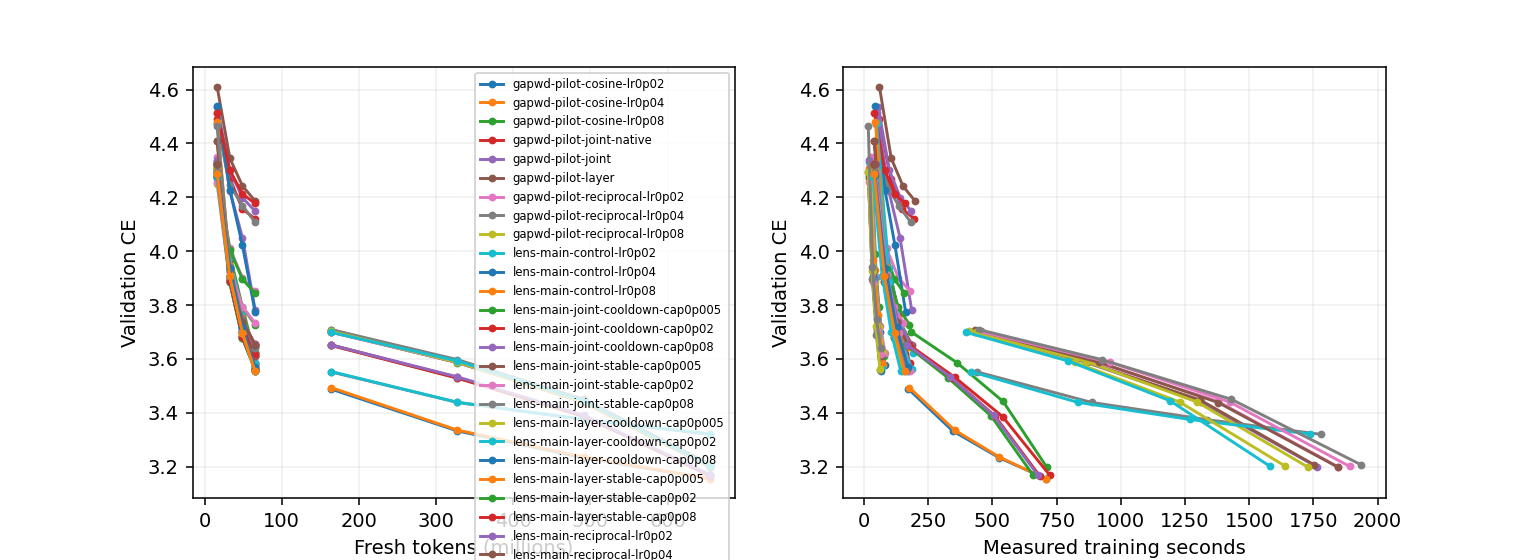
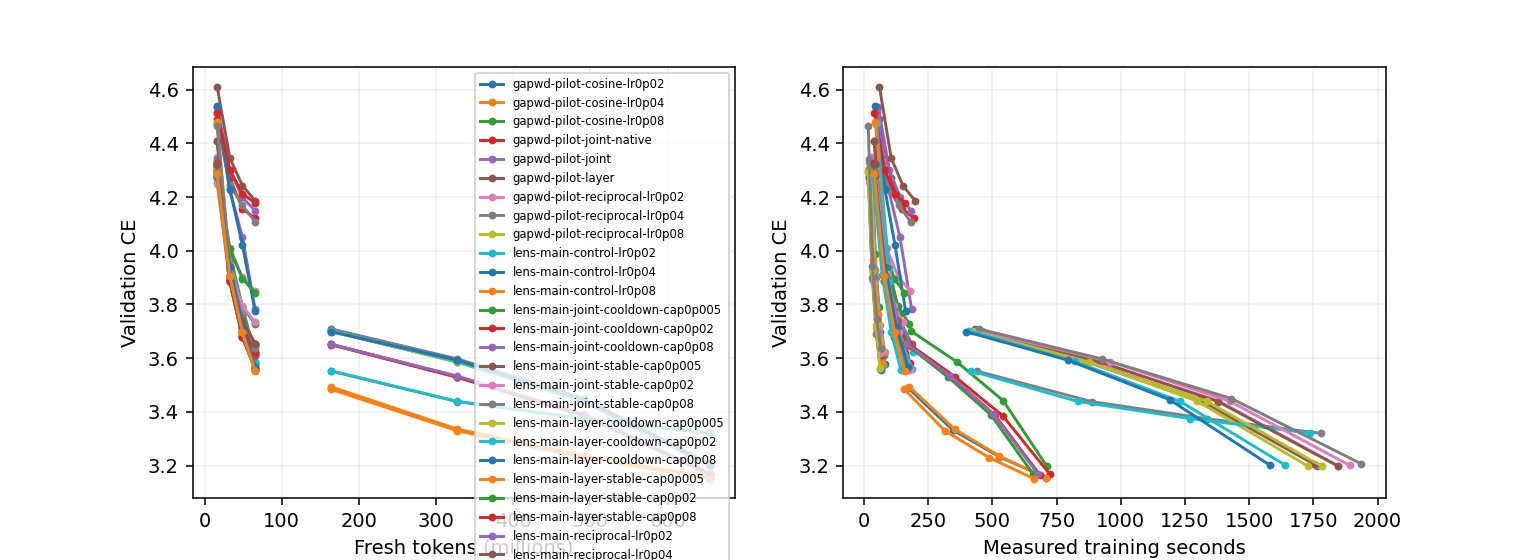
Update live Muon experiment results

diff --git a/research/unnormalized_muon/RESULTS.md b/research/unnormalized_muon/RESULTS.md
@@ -73,6 +73,8 @@ One B300 per job. CE is token cross-entropy (nats); lower is better. Rows with d
 | um-lens-confirm-joint-s10 | Clean GapWD joint uniform v2 c-in-Q quadratic cap0.01/cooldown fixed_lambda=0.18375 WD:standard(0) | 20000 | 10 | 0.04 | 3.198918 | 0.969828 | 3.144965 | 1934.59 |
 | um-lens-confirm-joint-s11 | Clean GapWD joint uniform v2 c-in-Q quadratic cap0.01/cooldown fixed_lambda=0.18375 WD:standard(0) | 20000 | 11 | 0.04 | 3.201077 | 0.970477 | 3.144870 | 1981.90 |
 | um-lens-confirm-joint-s12 | Clean GapWD joint uniform v2 c-in-Q quadratic cap0.01/cooldown fixed_lambda=0.18375 WD:standard(0) | 20000 | 12 | 0.04 | 3.206757 | 0.972214 | 3.150027 | 2028.32 |
+| um-lens-confirm-layer-s10 | Clean GapWD layer uniform v2 c-in-Q armijo cap0.01/cooldown fixed_lambda=0.18375 WD:standard(0) | 20000 | 10 | 0.04 | 3.197503 | 0.969383 | 3.142940 | 1882.20 |
+| um-lens-confirm-layer-s11 | Clean GapWD layer uniform v2 c-in-Q armijo cap0.01/cooldown fixed_lambda=0.18375 WD:standard(0) | 20000 | 11 | 0.04 | 3.201502 | 0.970638 | 3.146095 | 1719.76 |
 | um-lens-confirm-layer-s12 | Clean GapWD layer uniform v2 c-in-Q armijo cap0.01/cooldown fixed_lambda=0.18375 WD:standard(0) | 20000 | 12 | 0.04 | 3.202821 | 0.970995 | 3.147678 | 1656.38 |
 | um-lens-creative-ema0p5 | Clean GapWD layer uniform v2 c-in-Q armijo cap0.01/cooldown fixed_lambda=0.18375 WD:standard(0) | 2000 | 0 | 0.04 | 3.555660 | 1.077899 | — | 247.79 |
 | um-lens-creative-ema0p9 | Clean GapWD layer uniform v2 c-in-Q armijo cap0.01/cooldown fixed_lambda=0.18375 WD:standard(0) | 2000 | 0 | 0.04 | 3.558717 | 1.078825 | — | 229.92 |
@@ -182,7 +184,7 @@ One B300 per job. CE is token cross-entropy (nats); lower is better. Rows with d
 
 Review of um-fw-diagnostic-001: Compiled training f0 compared against functional candidate losses; vanishing-step mismatch2-4e-5 exceeded tolerance, leading to curvature1e186 and45 skipped steps. Replaced by paired functional reference and candidates; retain all645 measured forwards and GPUcost.
 
-Conservative charged/reserved total: 22.6986 / 30 B300 GPU-hours. Includes prior smoke/failed attempts and current maximum-duration reservations. Six-slot central queue; one B300 per run.
+Conservative charged/reserved total: 20.7587 / 30 B300 GPU-hours. Includes prior smoke/failed attempts and current maximum-duration reservations. Six-slot central queue; one B300 per run.
 
 CLEAN geometry disables row equilibration and NorMuon. Original clean runs use zero matrix decay; new WD runs explicitly label standard or cautious decay and their CLI coefficient. Same five Polar Express steps and Frobenius correction; scale by the per-matrix nonnegative FP32 inner product of the native Nesterov input with the NS/Frobenius direction. Shape scaling occurs once outside the scalar. Legacy rows retain production extras and must be compared separately. Constant schedule changes only matrix LR; auxiliary schedules and momentum remain matched.
 

diff --git a/research/unnormalized_muon/DETAILED_EVAL.md b/research/unnormalized_muon/DETAILED_EVAL.md
@@ -18,8 +18,10 @@ All results use the B300 fork model/data/tokenizer and a fixed tuning-validation
 | normalized WD standard 0 | 0.04 | 20000 | 3.198918 | 1844.40 | 1934.59 |
 | normalized WD standard 0 | 0.04 | 20000 | 3.201077 | 1891.19 | 1981.90 |
 | normalized WD standard 0 | 0.04 | 20000 | 3.206757 | 1936.58 | 2028.32 |
+| normalized WD standard 0 | 0.04 | 20000 | 3.197503 | 1783.84 | 1882.20 |
 | normalized WD standard 0 | 0.04 | 20000 | 3.201502 | 1640.94 | 1719.76 |
 | normalized WD standard 0 | 0.04 | 20000 | 3.202821 | 1578.96 | 1656.38 |
+| normalized WD standard 0 | 0.02 | 20000 | 3.151175 | 662.61 | 720.44 |
 | normalized WD standard 0 | 0.04 | 20000 | 3.199618 | 710.50 | 788.71 |
 | normalized WD standard 0 | 0.0282843 | 20000 | 3.168332 | 723.17 | 786.20 |
 | normalized WD standard 0 | 0.04 | 20000 | 3.199090 | 1763.98 | 1834.23 |
@@ -315,6 +317,12 @@ um-lens-confirm-joint-s12: accepted 20000/20000; skipped nonpositive blocks 465;
 
 Timing seconds: direction=687.736, reference=150.582, candidates=295.063, auxiliary=18.164.
 
+| um-lens-confirm-layer-s10 | layer native | 0.1837499 | 20000 | 3.197503 | 40000 | 1882.20 |
+
+um-lens-confirm-layer-s10: accepted 20000/20000; skipped nonpositive blocks 410; median actual eta 0.00778065; median gamma 0.00142969; median L 1e-16; median trials 1; max measured spectral ratio lambda*||W||op=0.31436. Native approximate NS can violate the ideal unit-oracle premise; this is recorded, not hidden.
+
+Timing seconds: direction=661.032, reference=151.402, candidates=147.486, auxiliary=18.910.
+
 | um-lens-confirm-layer-s11 | layer native | 0.1837499 | 20000 | 3.201502 | 40000 | 1719.76 |
 
 um-lens-confirm-layer-s11: accepted 20000/20000; skipped nonpositive blocks 331; median actual eta 0.00778212; median gamma 0.00142996; median L 1e-16; median trials 1; max measured spectral ratio lambda*||W||op=0.264642. Native approximate NS can violate the ideal unit-oracle premise; this is recorded, not hidden.
@@ -327,6 +335,7 @@ um-lens-confirm-layer-s12: accepted 20000/20000; skipped nonpositive blocks 466;
 
 Timing seconds: direction=570.370, reference=146.431, candidates=141.366, auxiliary=18.228.
 
+| um-lens-confirm-reciprocal-s10 | fw_reciprocal native | 0.1837499 | 20000 | 3.151175 | 0 | 720.44 |
 | um-lens-creative-ema0p5 | layer native | 0.1837499 | 2000 | 3.555660 | 4000 | 247.79 |
 
 um-lens-creative-ema0p5: accepted 2000/2000; skipped nonpositive blocks 90; median actual eta 0.00757385; median gamma 0.00139169; median L 1e-16; median trials 1; max measured spectral ratio lambda*||W||op=0.405719. Native approximate NS can violate the ideal unit-oracle premise; this is recorded, not hidden.

diff --git a/research/unnormalized_muon/FW_LENS_RESULTS.md b/research/unnormalized_muon/FW_LENS_RESULTS.md
@@ -23,8 +23,10 @@ Token-based schedule curves are descriptive. Independently scheduled equal-time 
 | um-lens-confirm-joint-s10 | joint-cooldown | 20000 updates | 10 | 3.198918 | 3.144965 | 1847.886 | 60004 | 38.446 | 1934.59 |
 | um-lens-confirm-joint-s11 | joint-cooldown | 20000 updates | 11 | 3.201077 | 3.144870 | 1895.864 | 60004 | 38.133 | 1981.90 |
 | um-lens-confirm-joint-s12 | joint-cooldown | 20000 updates | 12 | 3.206757 | 3.150027 | 1940.676 | 60004 | 38.451 | 2028.32 |
+| um-lens-confirm-layer-s10 | layer-cooldown | 20000 updates | 10 | 3.197503 | 3.142940 | 1787.653 | 40000 | 41.233 | 1882.20 |
 | um-lens-confirm-layer-s11 | layer-cooldown | 20000 updates | 11 | 3.201502 | 3.146095 | 1644.674 | 40000 | 33.876 | 1719.76 |
 | um-lens-confirm-layer-s12 | layer-cooldown | 20000 updates | 12 | 3.202821 | 3.147678 | 1582.715 | 40000 | 32.262 | 1656.38 |
+| um-lens-confirm-reciprocal-s10 | reciprocal | 20000 updates | 10 | 3.151175 | 3.095999 | 665.399 | 0 | 24.702 | 720.44 |
 | um-lens-creative-ema0p5 | layer-ema | 2000 updates | 0 | 3.555660 | — | 177.247 | 4000 | 33.839 | 247.79 |
 | um-lens-creative-ema0p9 | layer-ema | 2000 updates | 0 | 3.558717 | — | 165.360 | 4000 | 31.419 | 229.92 |
 | um-lens-creative-periodic2 | joint-periodic | 2000 updates | 0 | 3.554936 | — | 151.717 | 3001 | 43.345 | 243.89 |
@@ -94,6 +96,7 @@ Contraction is the actual coefficient product_t(1-lambda*eta_l,t), represented i
 | um-lens-confirm-joint-s10 | 20000/20000 | 0 | 0.0077854 | 0.0014306 | 0.02 | 2 | -25.39 to -25.39 | 0.298774 |
 | um-lens-confirm-joint-s11 | 20000/20000 | 0 | 0.0077854 | 0.0014306 | 0.02 | 2 | -25.39 to -25.39 | 0.26652 |
 | um-lens-confirm-joint-s12 | 20000/20000 | 0 | 0.0077854 | 0.0014306 | 0.02 | 2 | -25.39 to -25.39 | 0.307328 |
+| um-lens-confirm-layer-s10 | 20000/20000 | 0 | 0.0077807 | 0.0014297 | 1e-16 | 1 | -25.39 to -24.94 | 0.31436 |
 | um-lens-confirm-layer-s11 | 20000/20000 | 0 | 0.0077821 | 0.00143 | 1e-16 | 1 | -25.39 to -25.07 | 0.264642 |
 | um-lens-confirm-layer-s12 | 20000/20000 | 0 | 0.0077799 | 0.0014296 | 1e-16 | 1 | -25.39 to -24.82 | 0.261988 |
 | um-lens-creative-ema0p5 | 2000/2000 | 0 | 0.0075738 | 0.0013917 | 1e-16 | 1 | -2.506 to -2.438 | 0.405719 |
